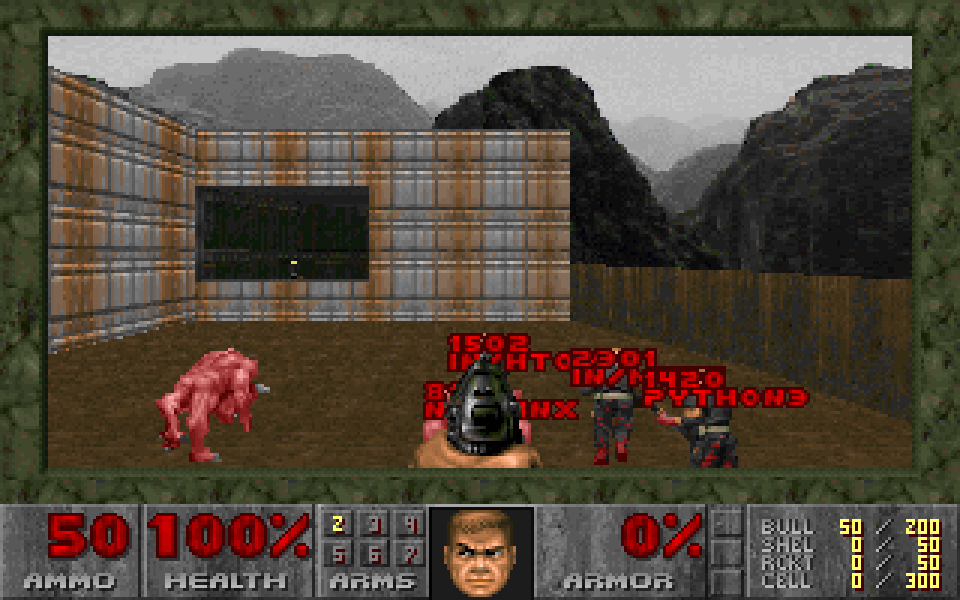
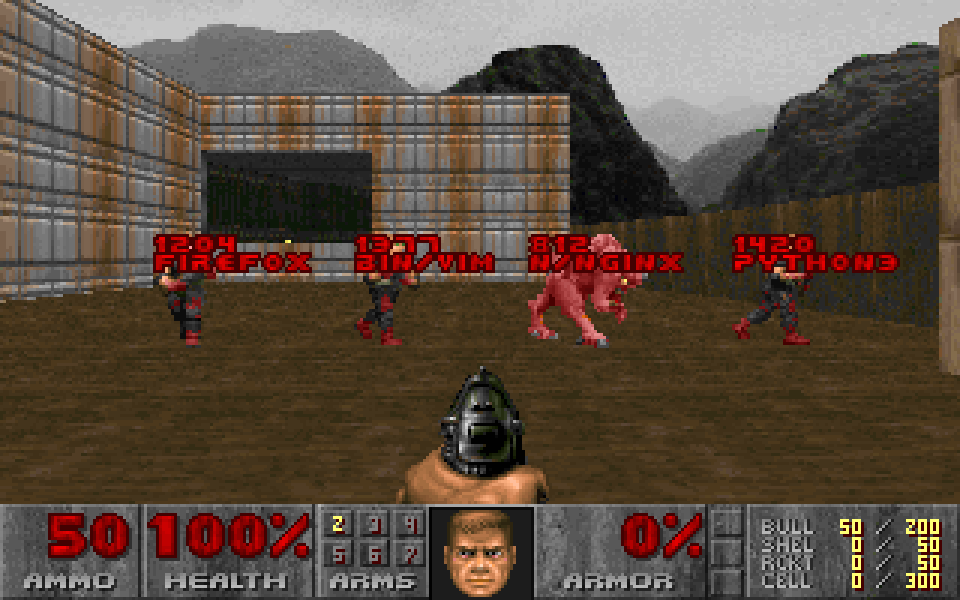
Screenshots: monsters in a row, every Doom engine retaken
-pstestview now lines up to four process monsters (a daemon first, then
user processes) across the view, 240 units out, so every label is clear
of the others, the weapon and the screen edges where psDooM hides
labels. It tries each pid monster's spot as the middle, sixteen
directions and three distances, and keeps the one where most fit and
can be seen on the player's level. Other pid monsters leave the picture.

The player was moved with P_TeleportMove, which leaves z alone, so every
picture caught them falling and the monsters sat low on screen; z is set
now. Trying spots no longer picks items up. Same in the ZScript for
GZDoom/UZDoom. og and GZDoom 8/8 with real signals in tv-debian.

README: new og, Crispy, Woof!, DSDA-Doom, GZDoom, UZDoom and DOS shots,
all 960x600, a first Chocolate Doom one, and a note on psDooM's 7
character labels.

Claude-Session: https://claude.ai/code/session_01P4db4Kyu6fVBLdLqk6NKsD

diff --git a/engines/common/psdoom/p_psdoom.c b/engines/common/psdoom/p_psdoom.c
@@ -519,6 +519,114 @@ static void test_finish (int code)
     exit (code);
 }
 
+// -pstestview: up to four living pid monsters (a daemon first) stand in a
+// row across the view, facing the player, so every label is clear of the
+// others, of the weapon and of the screen edges (where psDooM hides labels).
+// Of sixteen directions around the first one, the picture keeps the one where
+// most of them fit and can be seen. False if there is no living one.
+// units to the left of the middle, from 240 away: the daemon (wider, its label
+// starts further left) just right of the middle, two on the left, one on the right
+static const int	ps_view_lat[4] = { -60, 155, 54, -155 };
+static const int	ps_view_lat_even[4] = { -54, 155, 54, -155 };	// no daemon
+
+static int line_up_at (mobj_t* shooter, mobj_t** row, int n, fixed_t cx, fixed_t cy, angle_t a, int d)
+{
+    int		f = a >> ANGLETOFINESHIFT, s = (a + ANG90) >> ANGLETOFINESHIFT;
+    int		i, fit = 0, seen = 0, flags[4];
+    fixed_t	px = cx - d * finecosine[f], py = cy - d * finesine[f];
+
+    if (!P_CheckPosition (shooter, px, py))
+	return -1;
+    shooter->flags &= ~MF_PICKUP;		// trying spots picks nothing up
+    // where they stood for the last try doesn't block this one
+    for (i = 0; i < n; i++)
+    {
+	flags[i] = row[i]->flags;
+	row[i]->flags &= ~(MF_SOLID | MF_SHOOTABLE);
+    }
+    for (i = 0; i < n; i++)
+    {
+	int	l = (row[0]->type == MT_SERGEANT ? ps_view_lat : ps_view_lat_even)[i] * d / 240;	// the same picture from nearer
+	fixed_t x = cx + l * finecosine[s], y = cy + l * finesine[s];
+
+	if (P_CheckPosition (row[i], x, y) && PSE_TeleportMove (row[i], x, y))
+	    fit++;
+	row[i]->z = row[i]->floorz;	// teleporting leaves z alone
+	row[i]->angle = a + ANG180;
+    }
+    for (i = 0; i < n; i++)
+	row[i]->flags = flags[i];
+    PSE_TeleportMove (shooter, px, py);
+    shooter->z = shooter->floorz;	// not falling into the picture
+    shooter->momz = 0;
+    if (shooter->player)
+	shooter->player->viewz = shooter->z + shooter->player->viewheight;
+    shooter->angle = a;
+    // seen, and on the player's level (the labels sit right)
+    for (i = 0; i < n; i++)
+	seen += P_CheckSight (shooter, row[i]) && abs (row[i]->z - shooter->z) <= 24 * FRACUNIT;
+    return fit * 8 + seen;
+}
+
+static boolean test_line_up (mobj_t* shooter)
+{
+    mobj_t*		row[4];
+    int			n = 0, i, k, c, d, ncent = 0, score, best = -1, best_dir = 0, best_c = 0, best_d = 240;
+    fixed_t		cent[64][2];
+    angle_t		a0;
+
+    // one daemon, then user processes, then more daemons if that's all there is
+    for (k = 0; k < 3; k++)
+	for (i = 0; i < nmons && n < (k == 0 ? 1 : 4); i++)
+	{
+	    mobj_t* mo = mons[i].mo;
+	    boolean daemon = mo->type == MT_SERGEANT;
+
+	    if (mo->health > 0 && (k == 1 ? !daemon : daemon) && (k != 2 || mo != row[0]))
+		row[n++] = mo;
+	}
+    if (n == 0)
+	return false;
+    // any pid monster's spot may be the middle of the row
+    for (i = 0; i < nmons && ncent < 64; i++)
+	if (mons[i].mo->health > 0)
+	{
+	    cent[ncent][0] = mons[i].mo->x;
+	    cent[ncent++][1] = mons[i].mo->y;
+	}
+    // the other pid monsters leave the picture (the game ends after it)
+    for (i = 0; i < nmons; i++)
+    {
+	for (k = 0; k < n && row[k] != mons[i].mo; k++)
+	    ;
+	if (k == n)
+	    P_UnsetThingPosition (mons[i].mo);
+    }
+    a0 = row[0]->angle;
+    for (d = 240; d >= 160; d -= 40)		// the farthest that works
+	for (c = 0; c < ncent; c++)
+	    for (k = 0; k < 16; k++)
+		if ((score = line_up_at (shooter, row, n, cent[c][0], cent[c][1],
+					 a0 + (angle_t)k * (ANG45 / 2), d)) > best)
+		{
+		    best = score;
+		    best_dir = k;
+		    best_c = c;
+		    best_d = d;
+		}
+    if (best < 0)
+	return false;
+    line_up_at (shooter, row, n, cent[best_c][0], cent[best_c][1],
+		a0 + (angle_t)best_dir * (ANG45 / 2), best_d);
+    shooter->flags |= MF_PICKUP;
+    for (i = 0; i < n; i++)
+    {
+	P_SetMobjState (row[i], row[i]->info->spawnstate);
+	row[i]->tics = -1;		// hold still for the picture
+    }
+    return true;
+}
+
 static void test_ticker (void)
 {
     mobj_t*	shooter = players[consoleplayer].mo;
@@ -560,7 +668,9 @@ static void test_ticker (void)
 	{
 	    test_state = 3;
 	    test_finish_at = leveltime;
-	    if (test_view)
+	    if (test_view && test_line_up (shooter))
+		test_finish_at = leveltime + 4;
+	    else if (test_view)
 	    {
 		// stand 160 units from a living pid monster, facing it
 		for (i = 0; i < nmons; i++)

diff --git a/README.md b/README.md
@@ -52,16 +52,17 @@ PSDOOM_NET_TOKEN=<secret> build/og/psdoom-og -psnet 192.168.1.10:6666
 
 ## Screenshots
 
-Shareware Doom's E1M1, each engine facing the same process table: postgres is a Demon (a
-daemon), htop, mutt, python3 and nginx are zombiemen, and the label is the pid and the name.
-(The process table is staged through the psdoom-ng hook, so nothing was actually killed.)
+Shareware Doom's E1M1, each engine facing the same process table: nginx is a Demon (a daemon),
+firefox, vim and python3 are zombiemen. As in psDooM, a label is the pid over the last 7
+characters of the command (`/usr/bin/vim` shows as `BIN/VIM`). The process table is staged
+through the psdoom-ng hook, so nothing was actually killed.
 
 | | |
 |---|---|
-| ![og](docs/screenshots/og.png) og (id's linuxdoom-1.10 on SDL3) | ![Crispy Doom](docs/screenshots/crispy.png) Crispy Doom |
-| ![Woof!](docs/screenshots/woof.png) Woof! | ![DSDA-Doom](docs/screenshots/dsda.png) DSDA-Doom |
-| ![GZDoom](docs/screenshots/gzdoom.png) GZDoom | ![UZDoom](docs/screenshots/uzdoom.png) UZDoom |
-| ![MS-DOS](docs/screenshots/dos.png) MS-DOS (DOSBox-X): COMMAND.COM and PSDOOM itself, both protected in modern mode | |
+| ![og](docs/screenshots/og.png) og (id's linuxdoom-1.10 on SDL3) | ![Chocolate Doom](docs/screenshots/chocolate.png) Chocolate Doom |
+| ![Crispy Doom](docs/screenshots/crispy.png) Crispy Doom | ![Woof!](docs/screenshots/woof.png) Woof! |
+| ![DSDA-Doom](docs/screenshots/dsda.png) DSDA-Doom | ![GZDoom](docs/screenshots/gzdoom.png) GZDoom |
+| ![UZDoom](docs/screenshots/uzdoom.png) UZDoom | ![MS-DOS](docs/screenshots/dos.png) MS-DOS (DOSBox-X): three test TSRs and COMMAND.COM as monsters |
 
 Quake (shareware E1M1, the same process table): daemons are Fiends and user processes Grunts;
 the label shows while you look at one.

diff --git a/CHANGELOG.md b/CHANGELOG.md
@@ -1,5 +1,14 @@
 # Changelog
 
+## Unreleased
+
+- **`-pstestview`:** the closing picture lines up to four process monsters (a daemon and three
+  user processes) across the view, with every label clear of the others, the weapon and the
+  screen edges. The player is no longer caught mid-fall after being moved, which put the
+  monsters low on screen. In the Doom engines, the DOS build and GZDoom/UZDoom.
+- **README:** new screenshots for every Doom engine and DOS, all 960x600, and a first one for
+  Chocolate Doom.
+
 ## 0.2.0 (2026-11-06)
 
 Quake and Quake 3 join the Doom engines: processes are Quake monsters, or Quake 3 bots named
